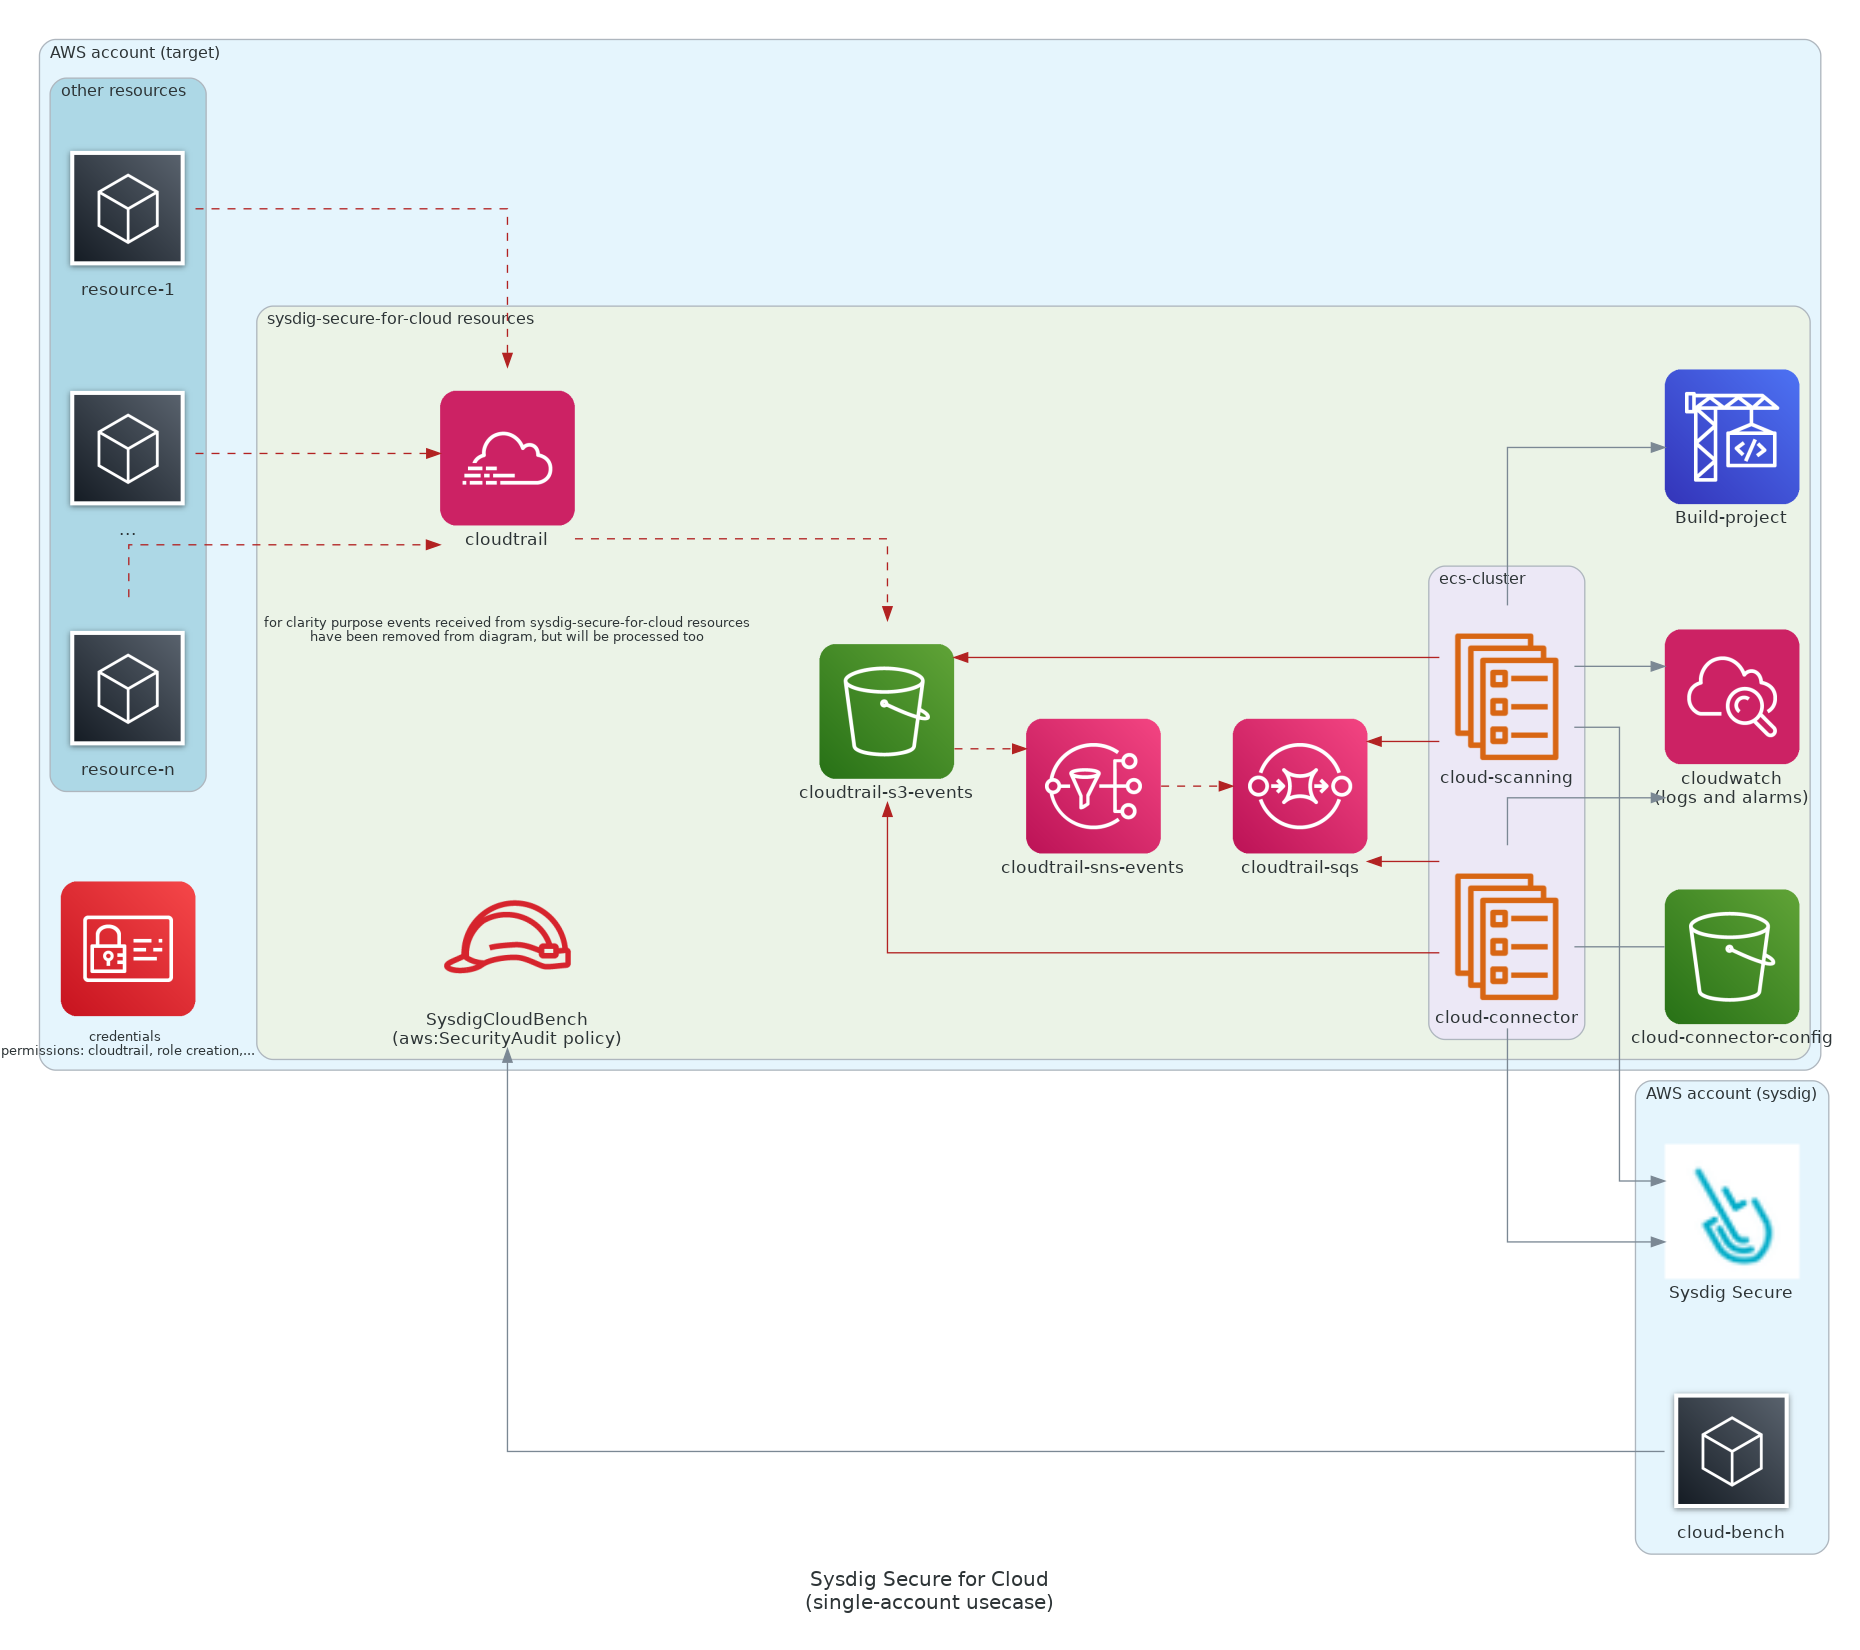
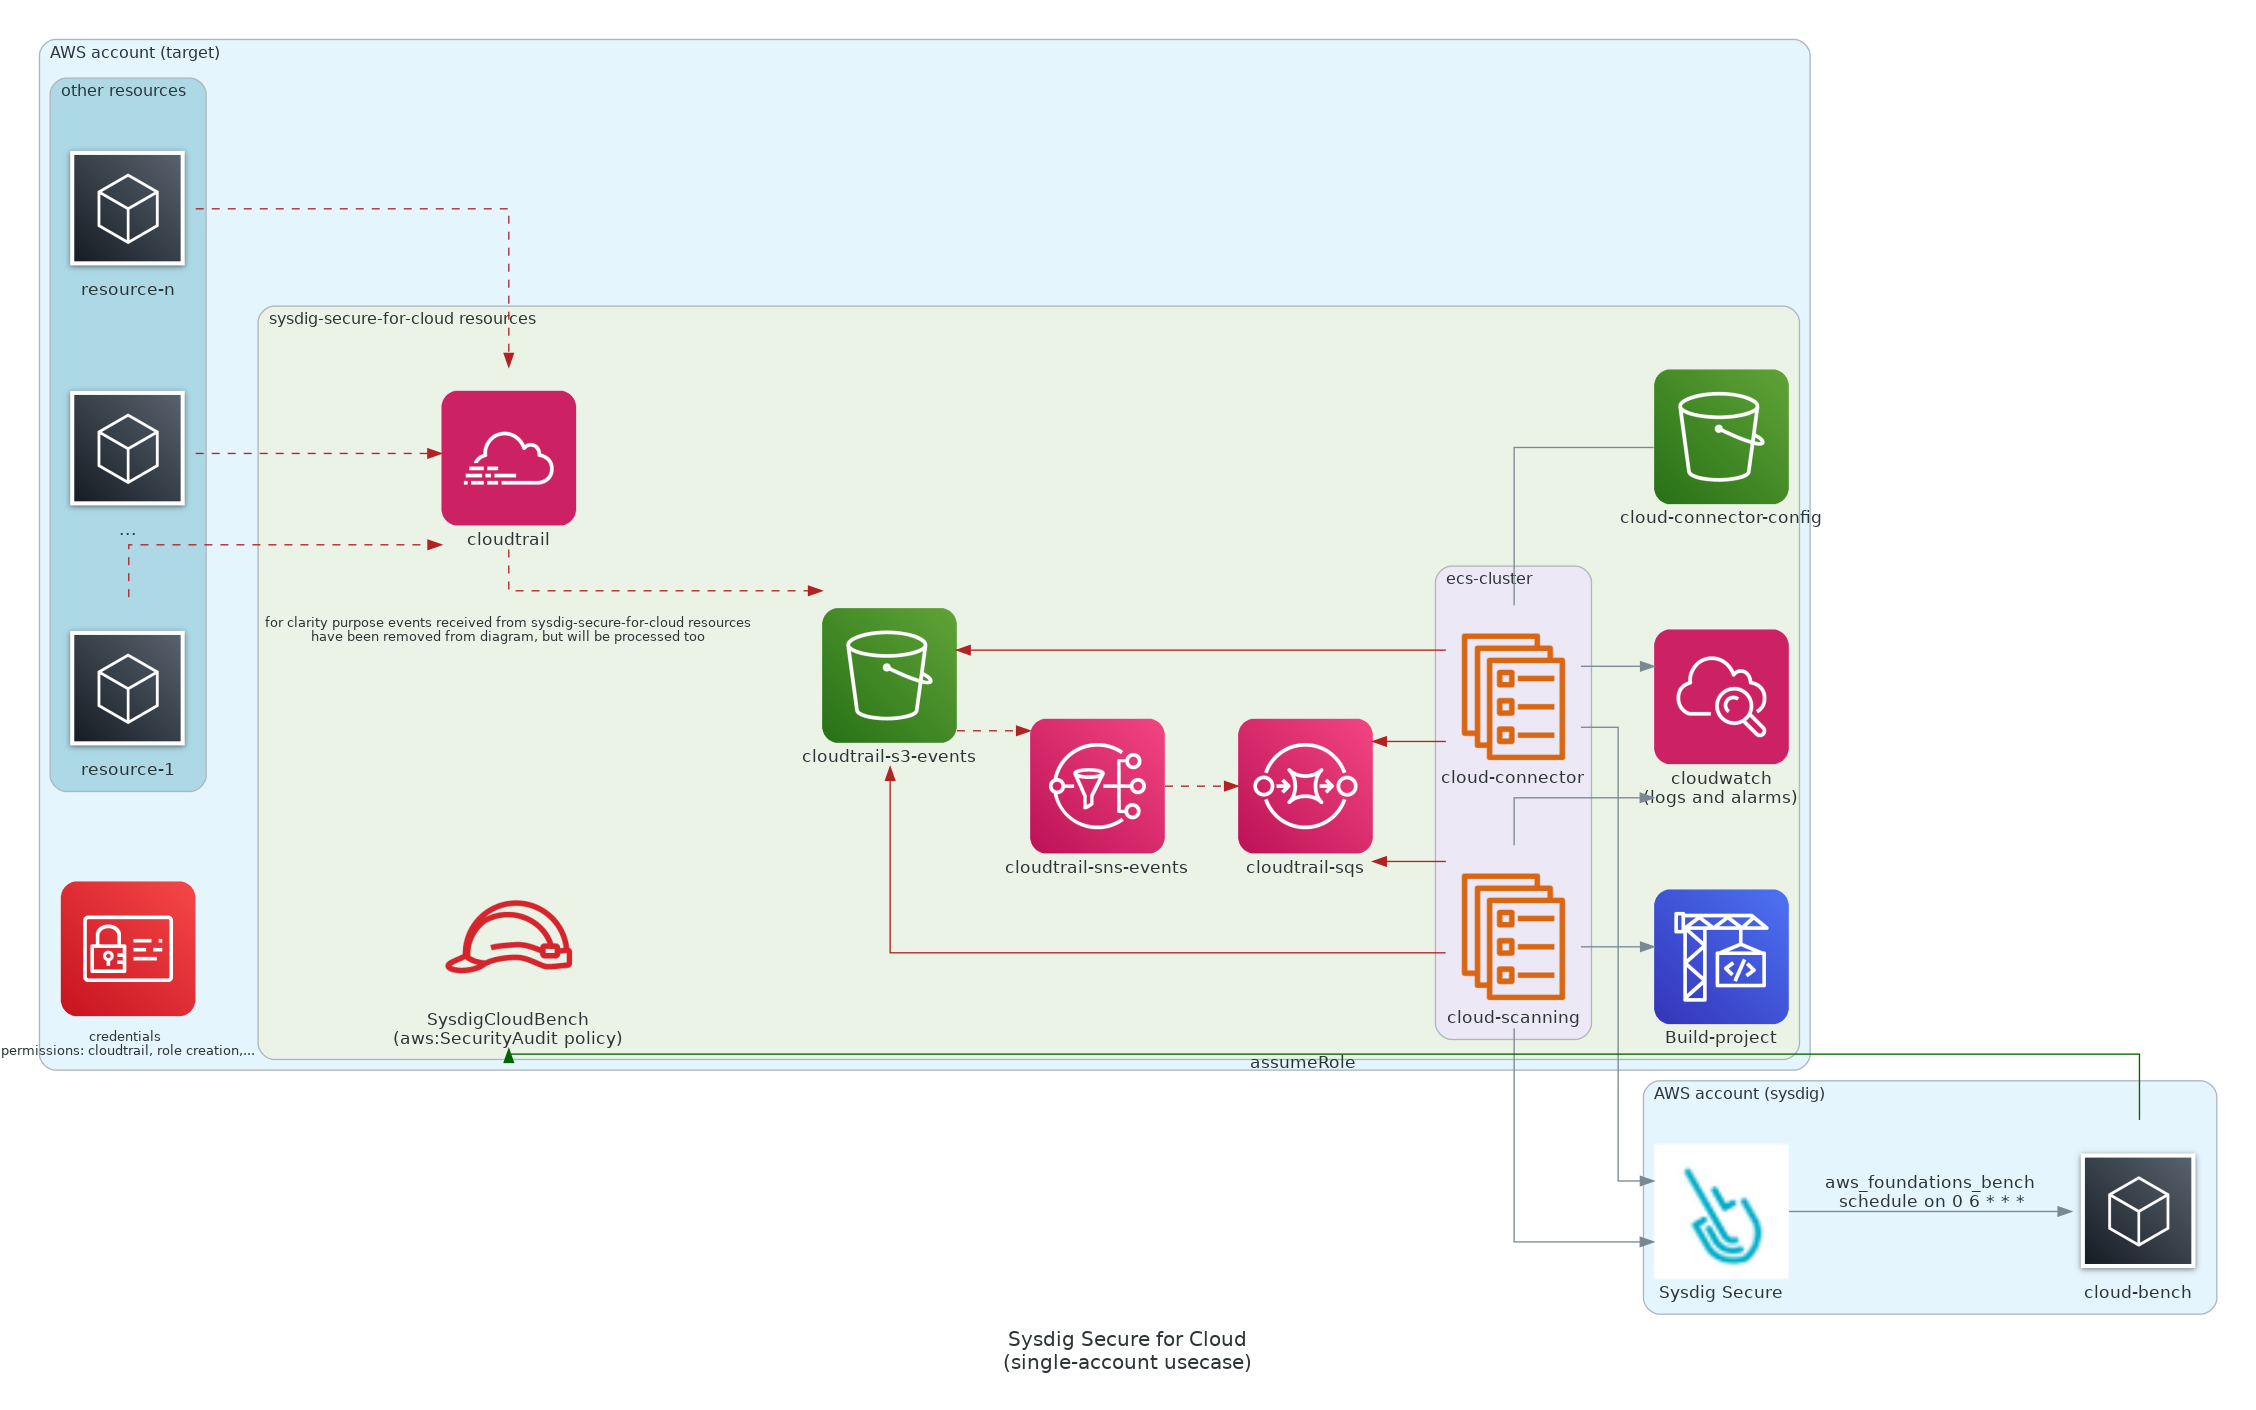
chore(doc): moar

Changed region(s): [[0.0, 0.0, 0.9978, 0.9674], [0.1871, 0.5305, 0.343, 0.6865], [0.4366, 0.9362, 0.5613, 0.9986]]

diff --git a/examples/single-account/diagram-single.py b/examples/single-account/diagram-single.py
@@ -75,6 +75,9 @@ with Diagram("Sysdig Secure for Cloud{}(single-account usecase)".format("\n"), g
         sds_account = General("cloud-bench")
         sds = Custom("Sysdig Secure", "../../resources/diag-sysdig-icon.png")
 
-    cloud_bench_role << sds_account
+        sds - Edge(label="aws_foundations_bench\n schedule on 0 6 * * *") >>  sds_account
+
+
     cloud_connector >> sds
     cloud_scanning >> sds
+    sds_account >> Edge(color="darkgreen", xlabel="assumeRole") >> cloud_bench_role

diff --git a/README.md b/README.md
@@ -5,9 +5,12 @@ Terraform module that deploys the **Sysdig Secure for Cloud** stack in **AWS**.
 
 There are three major components:
 
-* **Cloud Threat Detection**: Tracks abnormal and suspicious activities in your cloud environment based on Falco language.<br/>Managed through cloud-connector.<br/><br/>
-* **CSPM/Compliance**: It evaluates periodically your cloud configuration, using Cloud Custodian, against some benchmarks and returns the results and remediation you need to fix.<br/>Managed through cloud-bench.<br/><br/>
-* **Cloud Scanning**: Automatically scans all container images pushed to the registry or as soon a new task which involves a container is spawned in your account.<br/>Managed through cloud-scanning.<br/><br/>
+* **Cloud Threat Detection**: Tracks abnormal and suspicious activities in your cloud environment based on Falco language.<br/>Managed through [cloud-connector module](https://github.com/sysdiglabs/terraform-aws-secure-for-cloud/tree/master/modules/services/cloud-connector).<br/><br/>
+
+
+* **CSPM/Compliance**: It evaluates periodically your cloud configuration, using Cloud Custodian, against some benchmarks and returns the results and remediation you need to fix.<br/>Managed through [cloud-bench module](https://github.com/sysdiglabs/terraform-aws-secure-for-cloud/tree/master/modules/services/cloud-bench).<br/><br/>
+
+* **Cloud Scanning**: Automatically scans all container images pushed to the registry or as soon a new task which involves a container is spawned in your account.<br/>Managed through [cloud-scanning module](https://github.com/sysdiglabs/terraform-aws-secure-for-cloud/tree/master/modules/services/cloud-scanning).<br/><br/>
 
 For other Cloud providers check: [GCP](https://github.com/sysdiglabs/terraform-google-cloudvision), [Azure](https://github.com/sysdiglabs/terraform-azurerm-cloudvision)
 

diff --git a/examples/single-account/README.md b/examples/single-account/README.md
@@ -1,7 +1,10 @@
 # Sysdig Secure for Cloud in AWS :: Single-Account
 
-Deploy Sysdig Secure for Cloud in a single AWS account. All the required resources and workloads will be run
-under the same AWS account.
+
+
+Deploy Sysdig Secure for Cloud in a single AWS account.
+
+All the required resources and workloads will be run under the same AWS account.
 
 ![single-account diagram](https://raw.githubusercontent.com/sysdiglabs/terraform-aws-secure-for-cloud/7cee298cc8955c256be32b1b58c8c99a7095e788/examples/single-account/diagram-single.png)
 
